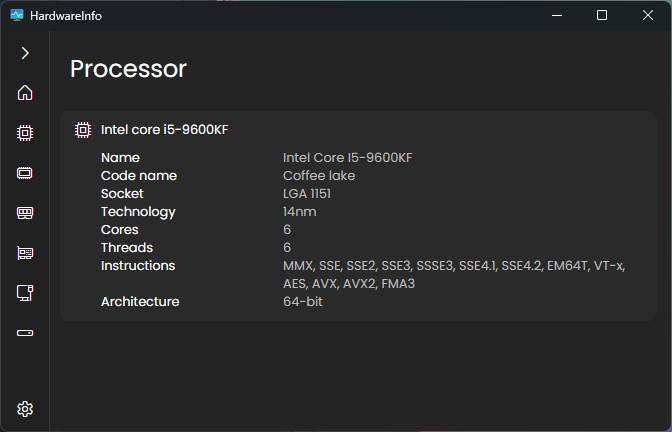
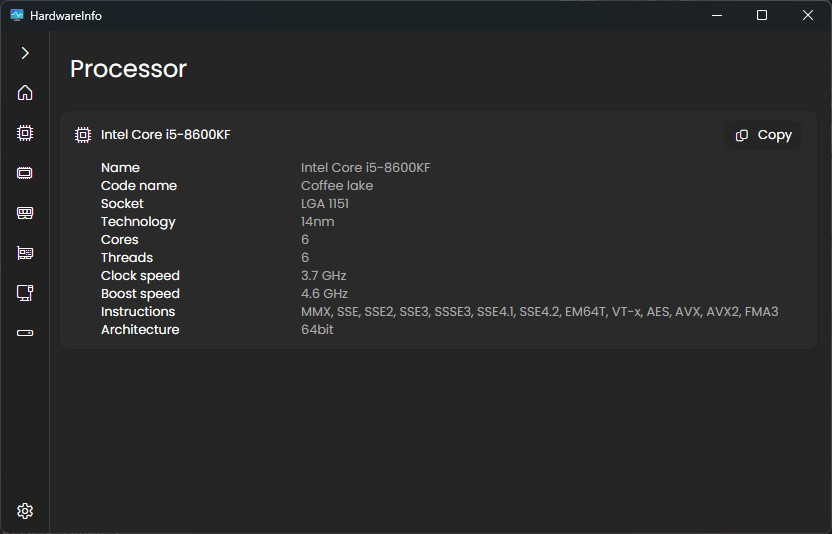
Updated image Updated panel header

diff --git a/src/Components/PanelHeader/PanelHeader.tsx b/src/Components/PanelHeader/PanelHeader.tsx
@@ -1,17 +1,21 @@
 import type { FC } from "react";
 import type PanelHeaderProps from "./PanelHeader.types";
-import StyledPanelHeader from "./PanelHeader.style";
+import StyledPanelHeader, {
+  StyledPanelHeaderContent,
+} from "./PanelHeader.style";
 import Icon from "../Icon/Icon";
 import Text from "../Text/Text";
 
 const PanelHeader: FC<PanelHeaderProps> = ({
   icon,
   header,
+  children,
 }: PanelHeaderProps): JSX.Element => {
   return (
     <StyledPanelHeader>
       <Icon>{icon}</Icon>
       <Text>{header}</Text>
+      <StyledPanelHeaderContent>{children}</StyledPanelHeaderContent>
     </StyledPanelHeader>
   );
 };

diff --git a/src/Components/PanelHeader/PanelHeader.types.ts b/src/Components/PanelHeader/PanelHeader.types.ts
@@ -1,11 +1,16 @@
 import type { Theme } from "@emotion/react";
 import type { StyledComponent } from "@emotion/styled";
-import type { ElementType, DetailedHTMLProps, HTMLAttributes } from "react";
+import type {
+  ElementType,
+  DetailedHTMLProps,
+  HTMLAttributes,
+  PropsWithChildren,
+} from "react";
 
-type PanelHeaderProps = {
+type PanelHeaderProps = PropsWithChildren<{
   icon: string;
   header: string;
-};
+}>;
 
 export type PanelHeaderComponent = StyledComponent<
   {

diff --git a/src/Components/PanelGrid/PanelGrid.tsx b/src/Components/PanelGrid/PanelGrid.tsx
@@ -12,8 +12,8 @@ const PanelGrid: FC<PanelGridProps> = ({
       {content.map((item: PanelGridData, index) => {
         return (
           <>
-            <Text key={index}>{item[0]}</Text>
-            <Text key={index} style={{ color: "#aaa" }}>
+            <Text key={index + 1}>{item[0]}</Text>
+            <Text key={index + 2} style={{ color: "#aaa" }}>
               {item[1]}
             </Text>
           </>

diff --git a/src/Components/PanelHeader/PanelHeader.style.tsx b/src/Components/PanelHeader/PanelHeader.style.tsx
@@ -9,4 +9,11 @@ const StyledPanelHeader: PanelHeaderComponent = styled.header`
   padding: 10px 15px;
 `;
 
+export const StyledPanelHeaderContent = styled.div`
+  display: flex;
+  align-items: center;
+  justify-content: flex-end;
+  flex: 1;
+`;
+
 export default StyledPanelHeader;

diff --git a/src/Components/PanelGrid/PanelGrid.style.tsx b/src/Components/PanelGrid/PanelGrid.style.tsx
@@ -3,7 +3,7 @@ import type { PanelGridComponent } from "./PanelGrid.types";
 
 const StyledPanelGrid: PanelGridComponent = styled.div`
   display: grid;
-  grid-template-columns: 1fr 2fr;
+  grid-template-columns: 200px 1fr;
   grid-template-rows: auto;
   padding-left: 26px;
 `;
